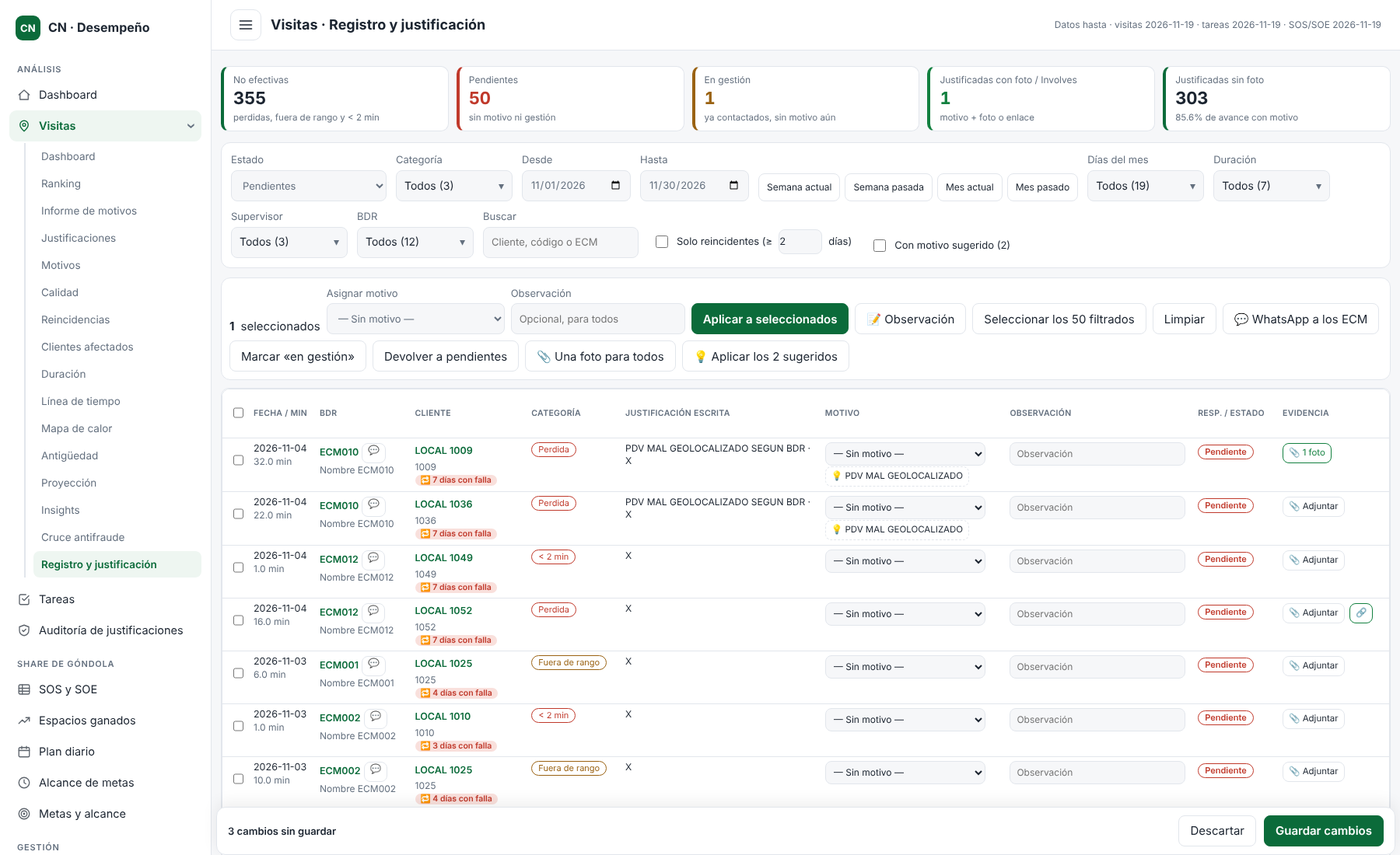
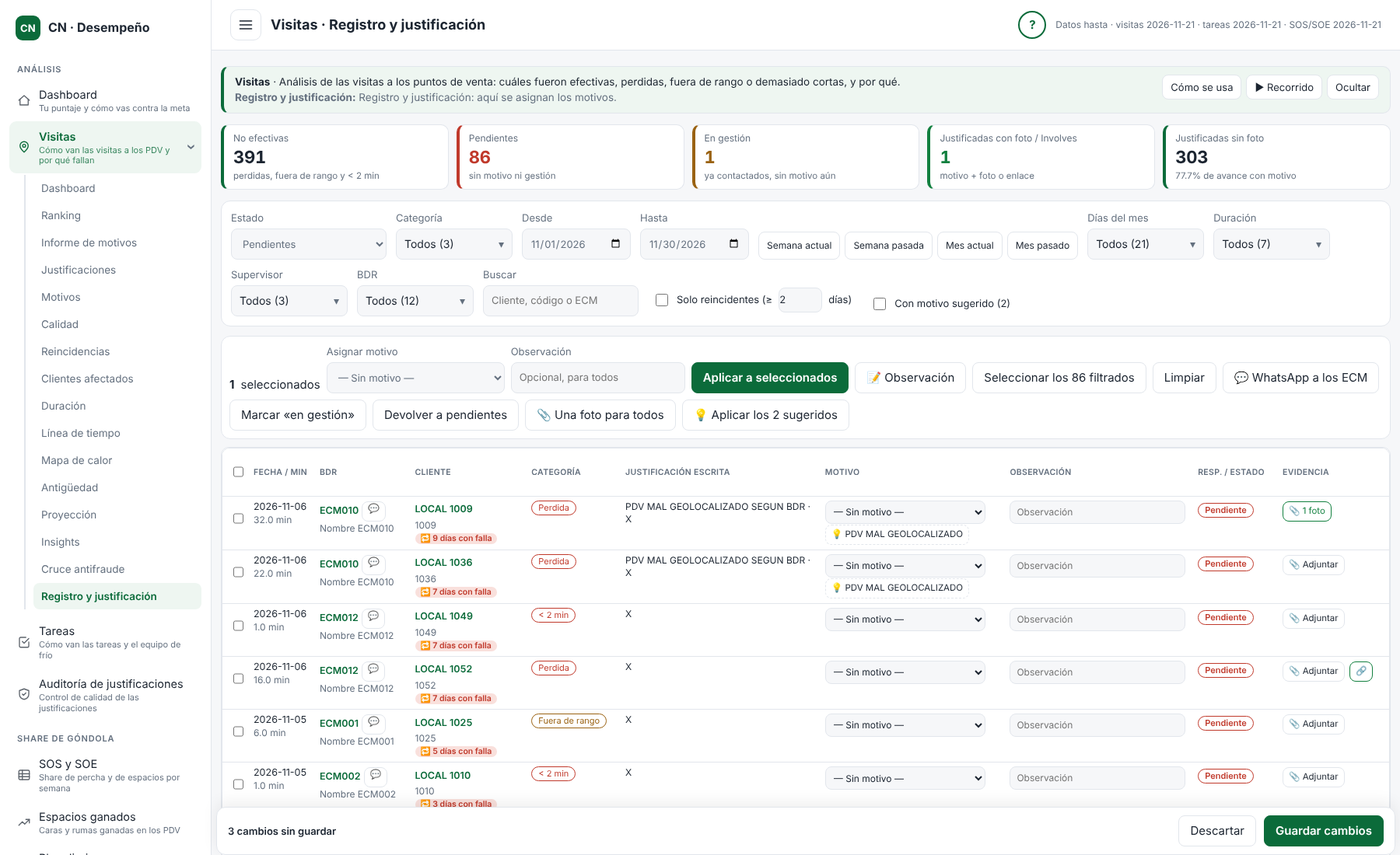
Ayuda interactiva: botón ?, recorrido guiado, bienvenida de primera vez, explicación visible en cada menú y pestaña, Centro de ayuda
Claude-Session: https://claude.ai/code/session_01JpWbck5kBhrX5tYtFQnDpi

diff --git a/web/ayuda.js b/web/ayuda.js
@@ -1,0 +1,190 @@
+'use strict';
+/* Ayuda interactiva: botón «?» en cada pantalla (explicación de la pantalla y de la pestaña activa), recorrido guiado con foco sobre
+   los elementos reales, bienvenida la primera vez y Centro de ayuda con buscador, glosario y preguntas frecuentes. */
+(function () {
+  NAV.ayuda = ['Centro de ayuda', ['admin', 'gerencia', 'supervisor', 'asesor']];
+  if (typeof ICON !== 'undefined') ICON.ayuda = '<circle cx="12" cy="12" r="9"/><path d="M9.5 9.5a2.5 2.5 0 114 2c-.9.6-1.5 1.1-1.5 2.2M12 17h.01"/>';
+  if (typeof GROUPS !== 'undefined' && !GROUPS.some(([t]) => t === 'Ayuda')) GROUPS.push(['Ayuda', ['ayuda']]);
+
+  const H = {
+    dashboard: { t: 'Dashboard', que: 'Tu panel de control del mes: el puntaje final y cada componente (visitas 20 %, tareas 30 %, tareas de frío 30 %, SOS 10 %, SOE 10 %) comparado con su meta.',
+      pasos: ['Elige el <b>Mes</b> arriba para ver otro período.', 'Mira los colores: verde cumple la meta, amarillo está cerca, rojo está por debajo.', 'Empieza por el componente más bajo: es donde más puedes mejorar.', 'Si eres supervisor o gerencia, revisa el detalle por supervisor y por ECM.'],
+      tips: ['El puntaje solo cuenta lo ya justificado: si tienes pendientes sin motivo, justifícalos en «Asignar motivos».'], tour: [['#main .bar', 'Mes', 'Cambia el mes para comparar períodos.'], ['#main .kp, #main .card', 'Puntaje y componentes', 'Aquí ves cómo vas contra la meta en cada componente.']] },
+    visitas: { t: 'Visitas', que: 'Análisis de las visitas a los puntos de venta: cuáles fueron efectivas, perdidas, fuera de rango o demasiado cortas, y por qué.',
+      pasos: ['Elige el <b>rango de fechas</b> (hay atajos: hoy, semana, mes).', 'Filtra por supervisor, BDR o categoría si lo necesitas.', 'Recorre las pestañas del menú lateral: de lo general (Dashboard, Ranking) a lo específico (Reincidencias, Duración).', 'Para justificar una visita ve a «Registro y justificación».', 'Descarga lo que ves con los botones Excel, PNG o PDF de cada tabla.'],
+      tips: ['Una visita cuenta como efectiva si se realizó, está dentro del rango del PDV y duró al menos el mínimo (2 minutos por defecto).', 'Los filtros se aplican a todas las pestañas.'],
+      tabs: { dash: 'Resumen: efectividad, cascada del plan a las efectivas y tendencia por día.', sbd: 'Ranking de supervisores y mercaderistas de mejor a peor.', inf: 'Informe de motivos: por qué fallaron las no efectivas, por responsable y por día de la semana.', jus: 'Justificaciones registradas con su estado y evidencia.', par: 'Pareto de motivos y su evolución mensual.', cal: 'Calidad del registro: datos incompletos o sospechosos.', rei: 'Clientes con fallas repetidas.', afe: 'Clientes más afectados por visitas no efectivas.', dur: 'Duración de las visitas: cortas y largas.', time: 'Línea de tiempo de la jornada.', heat: 'Mapa de calor por día y hora o por ECM.', pen: 'Antigüedad de lo pendiente de justificar.', pry: 'Proyección de cierre del mes según el ritmo actual.', ins: 'Hallazgos automáticos y recomendaciones.', cmp: 'Cruce antifraude: contrasta visitas con evidencias y enlaces de Involves.', det: 'Registro y justificación: aquí se asignan los motivos.' },
+      tour: [['#main .bar, #main .fbar', 'Filtros', 'Fechas, supervisor, BDR y categoría. Se aplican a todas las pestañas.'], ['#nav .ssub', 'Pestañas', 'Cambian la vista del análisis. Se pliegan con la flecha del menú.'], ['#main .kp', 'Indicadores', 'Los números clave del período elegido.'], ['#main .card', 'Tablas y gráficos', 'Cada tabla se puede ordenar y exportar a Excel, PNG o PDF.']] },
+    tareas: { t: 'Tareas', que: 'Igual que Visitas, pero para las tareas asignadas en Involves. Cada tarea es efectiva (E), mal ejecutada (M), justificada (F) o pendiente (P). Aparte se mide el equipo de frío.',
+      pasos: ['Elige el rango de fechas y filtros.', 'En <b>Pilares y frío</b> mira el cumplimiento de las tareas de equipo de frío (valen 30 % del puntaje).', 'En <b>Reincidencias</b> identifica los clientes con tareas fallidas repetidas.', 'Justifica en «Registro y justificación».'],
+      tips: ['Las tareas de frío se reconocen por palabras como COOLER, ESPACIO FRÍO o NEVERA; el administrador puede ajustarlas.'],
+      tabs: { dash: 'Resumen de efectividad de tareas.', sbd: 'Ranking de supervisores y ECM.', inf: 'Informe de motivos de las no efectivas.', jus: 'Justificaciones registradas.', par: 'Pareto de motivos.', cal: 'Calidad del registro.', pil: 'Pilares y equipo de frío.', rei: 'Clientes con tareas fallidas repetidas.', time: 'Línea de tiempo.', heat: 'Mapa de calor.', pen: 'Antigüedad de lo pendiente.', pry: 'Proyección del mes.', ins: 'Hallazgos automáticos.', cmp: 'Cruce antifraude.', det: 'Registro y justificación: asignar motivos.' },
+      tour: [['#main .bar, #main .fbar', 'Filtros', 'Fechas, supervisor, ECM y categoría.'], ['#nav .ssub', 'Pestañas', 'Incluye «Pilares y frío», exclusiva de tareas.'], ['#main .card', 'Tablas y gráficos', 'Exportables a Excel, PNG o PDF.']] },
+    audit: { t: 'Auditoría de justificaciones', que: 'Control de calidad de las justificaciones: en qué se justifica, quién repite, qué debe revisarse y qué cambios se hicieron.',
+      pasos: ['Define el rango de fechas.', 'En <b>Para revisar</b> aprueba o rectifica las justificaciones con alertas.', 'En <b>Avance por supervisor</b> revisa quién mantiene sus pendientes al día.', 'En <b>Historial de cambios</b> (gerencia y administración) consulta quién cambió qué y cuándo.'],
+      tips: ['Observaciones idénticas repetidas muchas veces suelen indicar justificación genérica.'], tabs: { mot: 'Motivos y responsable de lo justificado.', evo: 'Evolución mensual por motivo.', rei: 'Mismo cliente con el mismo motivo varias veces.', rev: 'Cola de justificaciones con alertas para aprobar o rectificar.', obs: 'Textos de observación que más se repiten.', ava: 'Porcentaje de lo no efectivo ya justificado, por supervisor.', his: 'Historial legible de cambios en la plataforma.' } },
+    sos: { t: 'SOS y SOE', que: 'Share de góndola de las marcas CN: SOS mide la percha; SOE mide espacios (bandejas de frío, bandejas secas y rumas). Se calcula por semana operativa (miércoles a martes).',
+      pasos: ['Abre <b>Resumen semanal</b> y usa las flechas ‹ › para cambiar de semana.', 'Compara con la semana anterior y mira los PDV bajo la meta.', 'En <b>PDV</b>, <b>Segmentos y marcas</b> y <b>Productos</b> busca dónde falta percha o espacio.', 'En <b>Alertas</b> ve lo que cae fuera de lo normal.'],
+      tips: ['Las encuestas de lunes y martes no cuentan.', 'Si un PDV tiene varias encuestas en la semana, vale solo la más reciente.', 'Una semana puede mostrar pocos días porque aún no se cargó toda la información.'],
+      tabs: { sem: 'Resumen semanal: share de la semana contra la anterior, PDV bajo meta, espacios ganados y metas. Se puede copiar o imprimir.', res: 'Evolución semana a semana.', sos: 'SOS: detalle de percha por supervisor, ECM, región o cadena.', soe: 'SOE: detalle de espacios.', mar: 'Participación por segmento y marca.', sku: 'Detalle por producto (SKU).', pdv: 'Cada PDV con su share y variación.', bi: 'Análisis: afectación al share y cambios relevantes.', ale: 'Alertas: PDV o ECM sin datos o con caídas.', det: 'Detalle editable (solo con permiso) para corregir filas.' },
+      tour: [['.wknav', 'Semana', 'Cambia de semana con las flechas. La semana va de miércoles a martes.'], ['#main .fbar, #main .bar', 'Filtros', 'Región, cadena, supervisor, ECM y PDV.'], ['#main .card, #main .big', 'Resultados', 'Share de percha y de espacios contra la semana anterior.']] },
+    ganancias: { t: 'Espacios ganados', que: 'Caras y rumas que se lograron ganar en los PDV (percha, bandeja de frío, bandeja seca y ruma), con fotos y observaciones.',
+      pasos: ['Filtra por fechas, ECM o PDV.', 'Revisa que tus logros aparezcan con su foto.', 'Quien tenga permiso puede registrar o corregir espacios ganados.'], tips: ['Si falta un logro, avisa a tu supervisor o al administrador.'] },
+    plan: { t: 'Plan diario', que: 'Calcula cuántos PDV y visitas debe cubrir cada ECM por día para llegar a la meta del período.',
+      pasos: ['Elige el período y revisa lo planeado para hoy.', 'Úsalo al empezar la jornada para ordenar tu ruta.', 'Compara con «Alcance de metas» al terminar el día.'] },
+    alcance: { t: 'Alcance de metas', que: 'Avance real por ECM y por día contra el plan: quién va adelantado y quién atrasado.',
+      pasos: ['Elige el período.', 'Revisa el avance de cada día frente a lo planeado.', 'Si vas por debajo, planea compensar en los días siguientes.'] },
+    metas: { t: 'Metas y alcance', que: 'Metas vigentes por semana o mes (SOS, SOE, visitas, tareas, frío). Quien tenga permiso puede crear y editar metas personalizadas, que tienen prioridad sobre las metas por defecto.',
+      pasos: ['Elige el período.', 'Consulta la meta aplicable a tu zona o a ti.', 'Con permiso: crea o edita una meta indicando modo, valor, regiones y responsable.'] },
+    registro: { t: 'Asignar motivos', que: 'Pantalla de trabajo diario para explicar con un motivo las visitas y tareas no efectivas. Siempre abre mostrando los pendientes.',
+      pasos: ['Elige <b>Visitas</b> o <b>Tareas</b>.', 'Filtra por fechas, categoría, ECM, duración o texto. Las tarjetas de arriba también filtran al pulsarlas.', 'Marca los registros (o «Seleccionar los filtrados»).', 'Elige el <b>motivo</b> y, si quieres, escribe una observación.', 'Pulsa <b>Aplicar a seleccionados</b>.', 'Pulsa <b>Guardar cambios</b> en la barra de abajo: hasta entonces nada queda registrado.'],
+      tips: ['💡 «Aplicar los sugeridos» propone motivos según la observación.', '🔁 «Revisar y replicar» copia el motivo de casos repetidos.', '📎 Puedes adjuntar una foto o enlaces de Involves (JPG, PNG o WebP, máximo 2 MB).', 'Si no puedes marcar ni guardar, tu tipo de usuario no tiene permiso de justificar.'],
+      tabs: { asignar: 'Asignar motivos: la lista de trabajo.', rei: 'PDV reincidentes: clientes con varias fallas, para actuar de una vez.', reg: 'Justificaciones registradas: lo ya hecho, con historial y exportación.' },
+      tour: [['#main .kp', 'Estados', 'Pendientes, en gestión y justificadas. Púlsalas para filtrar.'], ['#main .fbar', 'Filtros', 'Empieza en «Pendientes». Cambia fechas, categoría, ECM o busca por cliente.'], ['#bm', 'Motivo', 'Elige aquí el motivo que vas a aplicar a los marcados.'], ['[data-act="bulk"]', 'Aplicar', 'Aplica el motivo a todos los registros seleccionados.'], ['.rt', 'Lista', 'Marca los registros con la casilla de la izquierda.'], ['.savebar', 'Guardar', 'Los cambios solo quedan registrados al pulsar «Guardar cambios».']] },
+    pend: { t: 'Pendientes y WhatsApp', que: 'Lista por ECM de lo que sigue sin justificar, con un mensaje de WhatsApp ya redactado.',
+      pasos: ['Revisa los pendientes de cada ECM.', 'Pulsa el botón de WhatsApp: se abre el mensaje listo para enviar.', 'Al enviarlo, el registro pasa a «en gestión».', 'Cuando el ECM responda, asigna el motivo en «Asignar motivos».'] },
+    informe: { t: 'Informe mensual', que: 'Resumen del mes por ECM y supervisor con su puntaje, listo para reuniones.', pasos: ['Elige el mes.', 'Revisa el resumen por supervisor y por ECM.', 'Descarga en Excel o PDF.'] },
+    rutero: { t: 'Rutero y ubicación', que: 'Los PDV asignados a cada ECM, con región, cadena y ubicación registrada.', pasos: ['Busca por código, cliente o ECM.', 'Consulta la ubicación del PDV.', 'Úsalo para planear la ruta.'] },
+    carga: { t: 'Cargar bases', que: 'Solo para el administrador. Sube los reportes (visitas, tareas, rutero, equipo ECM, encuestas, espacios ganados, metas); cada archivo se reconoce por sus encabezados.',
+      pasos: ['Elige uno o varios archivos (.xlsx, .xls o .csv).', 'Revisa la lista: cada archivo muestra qué tipo es y cuántas filas trae. Quita los que no quieras.', 'Elige el modo: <b>Actualizar</b> (normal), <b>Reemplazar rango</b> o <b>Reemplazar todo</b>.', 'Pulsa subir y espera el resultado: nuevas, actualizadas, sin cambios y omitidas.', 'Tras cargar tareas, pulsa «Recalcular» en Pesos, metas y configuración.'],
+      tips: ['Orden recomendado la primera vez: Equipo ECM, Rutero, Visitas, Tareas, Encuestas, Espacios ganados, Metas.', 'Si falla, el panel de error permanece en pantalla con la explicación.', 'No cierres la pestaña mientras sube un archivo grande.'],
+      tour: [['#fl', 'Archivos', 'Elige uno o varios reportes a la vez.'], ['#lista', 'Reconocimiento', 'Aquí ves qué tipo es cada archivo antes de subirlo.']] },
+    ecm: { t: 'Equipo ECM', que: 'Relación de cada mercaderista con su supervisor, región y teléfono.', pasos: ['Busca al ECM.', 'Quien tenga permiso edita supervisor, región o teléfono.', 'Mantenerlo al día evita datos «sin supervisor».'] },
+    catalogo: { t: 'Catálogo de marcas', que: 'Clasifica cada pregunta de las encuestas en grupo (CN, competencia, EXCLUIR), tipo (percha, ruma, bandeja de frío o seca), marca y producto.', pasos: ['Revisa las preguntas nuevas o sin clasificar.', 'Asigna grupo, tipo y marca.', 'Guarda: el cambio afecta a todo SOS y SOE.'], tips: ['Las preguntas nuevas se clasifican solas por reglas; revisa las dudosas.'] },
+    config: { t: 'Pesos, metas y configuración', que: 'Parámetros del puntaje y de las reglas: pesos, metas por defecto, semana operativa, PDV excluidos, expresión de tareas de frío y otros ajustes.',
+      pasos: ['En <b>Pesos</b> ajusta los porcentajes (deben sumar 100).', 'En <b>Metas</b> define las metas por defecto.', 'En <b>Semana y exclusiones</b> indica el día de inicio y los PDV excluidos.', 'En <b>Tareas de equipo de frío</b> edita la expresión y mira la vista previa.', 'Pulsa <b>Recalcular</b> tras cambiar la expresión o cargar tareas nuevas.'] },
+    usuarios: { t: 'Usuarios', que: 'Altas, bajas y claves de los usuarios. Cada uno ingresa con un código (admin, ecm035…), sin correo.',
+      pasos: ['Pulsa <b>Nuevo usuario</b>.', 'Escribe código, nombre y tipo de usuario.', 'Mercaderista: código ECM/BDR. Supervisor: nombre como viene en las bases (vacío = ve todos los equipos) y regiones.', 'Entrega la clave por un canal seguro.', 'Para dar de baja, desactívalo: conserva su historial.'], tips: ['El código ECM debe coincidir con el de las bases o el usuario no verá sus datos.'] },
+    permisos: { t: 'Tipos de usuario y permisos', que: 'Define qué pantallas y pestañas ve cada tipo de usuario y qué acciones puede hacer (justificar, revisar, editar metas, etc.).',
+      pasos: ['Crea un tipo nuevo o elige uno existente.', 'Marca lo que puede <b>ver</b> (pantallas y pestañas).', 'Marca lo que puede <b>editar</b>.', 'Guarda y asigna el tipo a los usuarios.'], tips: ['Cargar bases es exclusivo del administrador.', 'El tipo base (admin, gerencia, supervisor, asesor) define el alcance de los datos.'] },
+    motivos: { t: 'Catálogo de motivos', que: 'Lista de motivos con su responsable. CN no penaliza; cualquier otro responsable sí.', pasos: ['Activa o desactiva motivos.', 'Pulsa «Nuevo» para crear uno: nombre, responsable y si aplica a visitas, tareas o ambos.'] },
+    accesos: { t: 'Accesos y movimiento', que: 'Quién entró, cuándo, qué pantallas vio y qué cambió en los últimos días. Solo administrador.',
+      pasos: ['Elige el período: 24 horas, 3 o 7 días.', '<b>Resumen por usuario:</b> último acceso, días activos y cambios; avisa quién no ha entrado.', '<b>Accesos:</b> cada ingreso y pantalla visitada; filtra por usuario.', '<b>Movimiento:</b> cambios hechos y por quién.'], tabs: { res: 'Resumen por usuario.', acc: 'Lista de ingresos y pantallas.', mov: 'Cambios registrados en la plataforma.' } },
+    ayuda: { t: 'Centro de ayuda', que: 'Todas las explicaciones en un solo lugar.', pasos: ['Busca por palabra o elige una pantalla.', 'Pulsa «Ver explicación» para leerla o «Recorrido» para verla en acción.'] }
+  };
+  const CORTA = { dashboard: 'Tu puntaje y cómo vas contra la meta', visitas: 'Cómo van las visitas a los PDV y por qué fallan', tareas: 'Cómo van las tareas y el equipo de frío', audit: 'Control de calidad de las justificaciones', sos: 'Share de percha y de espacios por semana', ganancias: 'Caras y rumas ganadas en los PDV', plan: 'Cuánto cubrir cada día para llegar a la meta', alcance: 'Avance real contra el plan, día por día', metas: 'Metas vigentes y su cumplimiento', registro: 'Explicar con un motivo lo no efectivo', pend: 'Lo que falta justificar y aviso por WhatsApp', informe: 'Resumen del mes por ECM y supervisor', rutero: 'PDV asignados y su ubicación', carga: 'Subir los reportes (solo administrador)', ecm: 'Mercaderistas, supervisor y región', catalogo: 'Clasificar las preguntas de las encuestas', config: 'Pesos, metas y reglas del puntaje', usuarios: 'Crear usuarios y cambiar claves', permisos: 'Qué ve y qué puede hacer cada tipo', motivos: 'Motivos y quién responsable', accesos: 'Quién entró y qué cambió', ayuda: 'Explicaciones, glosario y preguntas' };
+  const guiado = () => { try { return localStorage.getItem('cn_ay_guiado') !== 'no'; } catch (e) { return true; } };
+  const setGuiado = (v) => { try { localStorage.setItem('cn_ay_guiado', v ? 'si' : 'no'); } catch (e) { } };
+  const plano = (h) => String(h || '').replace(/<[^>]+>/g, '');
+  const GLOS = [['ECM / BDR', 'El mercaderista, identificado por su código (ECM035).'], ['PDV', 'Punto de venta (cliente), con código numérico.'], ['Visita efectiva', 'Realizada, dentro del rango del PDV y con duración mínima (2 min).'], ['Perdida', 'Visita programada que no se realizó.'], ['Fuera de rango', 'Visita hecha lejos del PDV.'], ['Tarea E / M / F / P', 'Efectiva, mal ejecutada, justificada o pendiente.'], ['Justificar', 'Explicar con un motivo por qué algo no fue efectivo. Si el responsable es CN, no penaliza.'], ['SOS', 'Share de percha: parte de la percha que ocupan las marcas CN.'], ['SOE', 'Share de espacios: bandejas y rumas de CN.'], ['Espacios ganados', 'Caras o rumas conseguidas en un PDV.'], ['Semana operativa', 'De miércoles a martes.'], ['Involves', 'Herramienta de campo donde se registran visitas, tareas y fotos.'], ['Puntaje', '20 % visitas, 30 % tareas, 30 % tareas de frío, 10 % SOS, 10 % SOE.']];
+  const FAQ = [['No puedo entrar', 'Revisa tu código (sin @) y tu contraseña. Si dice «usuario no activo» o «demasiados intentos», espera unos minutos o avisa al administrador.'], ['No veo un menú', 'Cada tipo de usuario tiene permisos distintos. Pídelo al administrador.'], ['Hice cambios y no se guardaron', 'Faltó pulsar «Guardar cambios». Si sales sin guardar, se pierden.'], ['Una semana de SOS tiene pocos días', 'Lunes y martes no cuentan, y la semana va de miércoles a martes.'], ['Mi visita de hoy no aparece', 'Los datos se cargan después. Mira «Datos hasta…» arriba a la derecha.'], ['La pantalla no se actualiza', 'Recarga con Ctrl + F5 (computador) o cierra y abre el navegador (celular).'], ['No puedo subir la foto', 'Usa JPG, PNG o WebP de hasta 2 MB.']];
+
+  const curKey = () => { const k = (location.hash || '#dashboard').slice(1).split('/')[0]; return NAV[k] ? k : 'dashboard'; };
+  const E = (s) => (typeof esc === 'function' ? esc(s) : String(s));
+  const visible = (el) => !!el && !!(el.offsetWidth || el.offsetHeight) && getComputedStyle(el).visibility !== 'hidden';
+
+  /* ---------- panel de ayuda de la pantalla actual ---------- */
+  function cierraPanel() { const p = document.getElementById('ayp'); if (p) { p.remove(); document.getElementById('ayb') && document.getElementById('ayb').focus(); } }
+  function panel(key) {
+    cierraPanel(); key = key || curKey(); const d = H[key] || { t: (NAV[key] || [key])[0], que: 'Aún no hay explicación para esta pantalla.', pasos: [] };
+    const sub = CN.sub && CN.sub[key], tabs = sub ? sub.tabs() : [], actual = sub ? sub.cur() : '';
+    const tabsHtml = tabs.length && d.tabs ? `<h3>Pestañas</h3><ul class="ay-tabs">${tabs.map(([k, n]) => `<li class="${k === actual ? 'on' : ''}"><b>${E(n)}</b>${k === actual ? ' <span class="ay-pill">estás aquí</span>' : ''}<br>${E(d.tabs[k] || '')}</li>`).join('')}</ul>` : '';
+    const dTab = d.tabs && actual && d.tabs[actual] ? `<div class="ay-now"><b>Pestaña actual:</b> ${E((tabs.find((t) => t[0] === actual) || [])[1] || '')}<br>${E(d.tabs[actual])}</div>` : '';
+    const el = document.createElement('aside'); el.id = 'ayp'; el.className = 'ay-panel'; el.setAttribute('role', 'dialog'); el.setAttribute('aria-label', 'Ayuda: ' + d.t);
+    el.innerHTML = `<div class="ay-h"><h2>${E(d.t)}</h2><button type="button" data-ay="x" aria-label="Cerrar ayuda">✕</button></div>
+      <div class="ay-b"><p>${d.que}</p>${dTab}${d.pasos && d.pasos.length ? `<h3>Cómo se usa</h3><ol>${d.pasos.map((p) => `<li>${p}</li>`).join('')}</ol>` : ''}${d.tips && d.tips.length ? `<h3>Buenas prácticas</h3><ul>${d.tips.map((p) => `<li>${p}</li>`).join('')}</ul>` : ''}${tabsHtml}</div>
+      <div class="ay-f"><button type="button" class="pri" data-ay="tour">▶ Recorrido guiado</button><button type="button" data-ay="centro">Centro de ayuda</button></div>`;
+    document.body.appendChild(el);
+    el.onclick = (e) => { const a = e.target.closest('[data-ay]'); if (!a) return; if (a.dataset.ay === 'x') cierraPanel(); else if (a.dataset.ay === 'tour') { cierraPanel(); recorrido(key); } else if (a.dataset.ay === 'centro') { cierraPanel(); location.hash = '#ayuda'; } };
+    el.querySelector('[data-ay="x"]').focus();
+  }
+
+  /* ---------- recorrido guiado ---------- */
+  function recorrido(key) {
+    key = key || curKey(); const d = H[key] || {};
+    const base = [['#sb', 'Menú', 'Aquí están todas tus pantallas. Pulsa una para abrirla; las que tienen pestañas las muestran debajo.'], ['#ph', 'Dónde estás', 'El título muestra la pantalla y la pestaña actual.'], ['#ayb', 'Ayuda', 'Este botón (o la tecla ?) abre la explicación de la pantalla en que estés.']];
+    const pasos = base.concat(d.tour || []).map(([sel, t, x]) => ({ el: [...document.querySelectorAll(sel)].find(visible), t, x })).filter((s) => s.el);
+    if (!pasos.length) return panel(key);
+    correr(pasos);
+  }
+  function correr(pasos) {
+    let i = 0; const ov = document.createElement('div'); ov.className = 'ay-tour'; ov.setAttribute('role', 'dialog'); ov.setAttribute('aria-label', 'Recorrido guiado');
+    const sp = document.createElement('div'); sp.className = 'ay-spot'; const tip = document.createElement('div'); tip.className = 'ay-tip'; ov.append(sp, tip); document.body.appendChild(ov);
+    const fin = () => { ov.remove(); removeEventListener('keydown', tecla, true); removeEventListener('resize', pinta); };
+    const pinta = () => {
+      const s = pasos[i]; if (s.abrir) { const sb = document.getElementById('sb'); if (sb && !visible(sb)) sb.classList.add('open'); } s.el.scrollIntoView({ block: 'center', behavior: 'instant' in window ? 'auto' : 'auto' }); const r = s.el.getBoundingClientRect(), pad = 6;
+      Object.assign(sp.style, { top: r.top - pad + 'px', left: r.left - pad + 'px', width: r.width + pad * 2 + 'px', height: r.height + pad * 2 + 'px' });
+      tip.innerHTML = `<div class="ay-step">Paso ${i + 1} de ${pasos.length}</div><b>${E(s.t)}</b><p>${E(s.x)}</p><div class="ay-btns"><button type="button" data-t="x">Salir</button><span style="flex:1"></span><button type="button" data-t="p" ${i ? '' : 'disabled'}>Anterior</button><button type="button" class="pri" data-t="n">${i === pasos.length - 1 ? 'Terminar' : 'Siguiente'}</button></div>`;
+      const th = tip.offsetHeight || 150, w = Math.min(340, innerWidth - 24); tip.style.width = w + 'px';
+      if (s.el.closest('#sb') && innerWidth - r.right > w + 30) { tip.style.left = r.right + 16 + 'px'; tip.style.top = Math.min(Math.max(8, r.top), innerHeight - th - 8) + 'px'; tip.querySelector('[data-t="n"]').focus(); return; }
+      let top = r.bottom + 14; if (top + th > innerHeight - 8) top = Math.max(8, r.top - th - 14); if (top < 8) top = 8; let left = Math.min(Math.max(12, r.left), innerWidth - w - 12);
+      tip.style.top = top + 'px'; tip.style.left = left + 'px'; tip.querySelector('[data-t="n"]').focus();
+    };
+    const sig = () => { if (i < pasos.length - 1) { i++; pinta(); } else fin(); }, ant = () => { if (i) { i--; pinta(); } };
+    const tecla = (e) => { if (e.key === 'Escape') { e.stopPropagation(); fin(); } else if (e.key === 'ArrowRight') sig(); else if (e.key === 'ArrowLeft') ant(); };
+    tip.onclick = (e) => { const b = e.target.closest('[data-t]'); if (!b) return; ({ x: fin, n: sig, p: ant })[b.dataset.t](); }; ov.onclick = (e) => { if (e.target === ov) fin(); };
+    addEventListener('keydown', tecla, true); addEventListener('resize', pinta); pinta();
+  }
+
+  function recorridoMenu() {
+    const sb = document.getElementById('sb'); if (sb && !visible(sb)) sb.classList.add('open');
+    const pasos = [{ el: sb, t: 'Tu menú', x: 'Aquí está todo lo que puedes usar. Te explicamos para qué sirve cada opción. Usa las flechas del teclado o los botones.', abrir: 1 }];
+    [...document.querySelectorAll('#nav .sbtn[data-go]')].forEach((b) => { const k = b.dataset.go, d = H[k]; if (!d) return; pasos.push({ el: b, abrir: 1, t: d.t, x: plano(d.que) + (d.tabs ? ' Tiene pestañas: al abrirla las verás debajo, en el menú, cada una con su explicación al pasar el mouse.' : '') }); });
+    pasos.push({ el: document.getElementById('ayb'), t: '¿Dudas?', x: 'En cualquier pantalla, el botón ? (o la tecla ?) te explica qué es y cómo se usa. También hay un Centro de ayuda en el menú.' });
+    correr(pasos.filter((p) => p.el));
+  }
+
+  /* ---------- explicaciones siempre visibles: menú, pestañas y franja de cada pantalla ---------- */
+  function anotaMenu() {
+    const cur = curKey(), d = H[cur] || {};
+    document.querySelectorAll('#nav .sbtn[data-go]').forEach((b) => {
+      const k = b.dataset.go, c = CORTA[k]; if (!c) return; b.title = c; const sp = b.querySelector('span'); if (!sp) return;
+      let sm = b.querySelector('.ay-sub'); if (guiado()) { if (!sm) { sm = document.createElement('small'); sm.className = 'ay-sub'; sp.appendChild(sm); } sm.textContent = c; } else if (sm) sm.remove();
+    });
+    document.querySelectorAll('#nav [data-sub]').forEach((b) => { const tk = b.dataset.sub.split('|')[1], t = d.tabs && d.tabs[tk]; if (t) b.title = t; });
+  }
+  let firmaIntro = '';
+  function franja() {
+    const m = document.getElementById('main'); if (!m || !S.me) return; const key = curKey(); if (key === 'ayuda') return;
+    const d = H[key], sub = CN.sub && CN.sub[key], actual = sub ? sub.cur() : '', tabs = sub ? sub.tabs() : [];
+    const tn = (tabs.find((t) => t[0] === actual) || [])[1], td = d && d.tabs && d.tabs[actual];
+    const sig = [key, actual, guiado()].join('|'); const ex = m.querySelector(':scope > .ay-intro');
+    if (!guiado() || !d) { if (ex) ex.remove(); return; } if (ex && ex.dataset.k === sig) return; if (ex) ex.remove();
+    const el = document.createElement('div'); el.className = 'ay-intro'; el.dataset.k = sig;
+    el.innerHTML = `<div class="ay-i"><b>${E(d.t)}</b> · ${plano(d.que)}${tn && td ? `<br><span class="ay-tb"><b>${E(tn)}:</b> ${E(td)}</span>` : ''}</div><div class="ay-ib"><button type="button" data-i="uso">Cómo se usa</button><button type="button" data-i="tour">▶ Recorrido</button><button type="button" data-i="ocultar" title="Ocultar las explicaciones (se vuelven a activar en el menú)">Ocultar</button></div>`;
+    el.onclick = (e) => { const b = e.target.closest('[data-i]'); if (!b) return; if (b.dataset.i === 'uso') panel(key); else if (b.dataset.i === 'tour') recorrido(key); else { setGuiado(false); anotaMenu(); franja(); actualizaToggle(); } };
+    m.prepend(el);
+  }
+  function actualizaToggle() { const t = document.getElementById('ayt'); if (t) { t.querySelector('span').textContent = guiado() ? 'Explicaciones: activadas' : 'Explicaciones: desactivadas'; t.setAttribute('aria-pressed', guiado()); } }
+  function toggle() {
+    const foot = document.querySelector('#sb .foot'); if (!foot || document.getElementById('ayt')) return;
+    const b = document.createElement('button'); b.type = 'button'; b.id = 'ayt'; b.className = 'sbtn'; b.innerHTML = '<svg viewBox="0 0 24 24" aria-hidden="true"><circle cx="12" cy="12" r="9"/><path d="M12 11v5M12 8h.01"/></svg><span></span>';
+    foot.insertBefore(b, foot.firstChild.nextSibling || null); b.onclick = () => { setGuiado(!guiado()); anotaMenu(); franja(); actualizaToggle(); }; actualizaToggle();
+  }
+
+  /* ---------- botón «?» y bienvenida ---------- */
+  function boton() {
+    const head = document.querySelector('.pagehead'); if (!head || document.getElementById('ayb')) return;
+    const b = document.createElement('button'); b.type = 'button'; b.id = 'ayb'; b.className = 'ay-btn'; b.textContent = '?'; b.title = 'Ayuda de esta pantalla (tecla ?)'; b.setAttribute('aria-label', 'Ayuda de esta pantalla');
+    const f = document.getElementById('fresh'); head.insertBefore(b, f || null); b.onclick = () => panel();
+  }
+  function bienvenida(forzar) {
+    const k = 'cn_ayuda_' + (S.me && S.me.usuario); if (!forzar) { try { if (localStorage.getItem(k)) return; } catch (e) { return; } }
+    const c = document.createElement('div'); c.className = 'modal ay-wm'; c.setAttribute('role', 'dialog'); c.setAttribute('aria-modal', 'true'); c.setAttribute('aria-label', 'Bienvenida');
+    const nom = E((S.me.nombre || '').split(' ')[0] || ''), rol = E(S.me.perfilNombre || '');
+    c.innerHTML = `<div class="box" style="max-width:480px"><h2 style="margin:0;color:var(--brand)">¡Bienvenido/a${nom ? ', ' + nom : ''}!</h2><p>Esta plataforma te muestra cómo van tus visitas, tareas y share de góndola, y te ayuda a justificar lo que no salió como esperabas.${rol ? ' Tu perfil es <b>' + rol + '</b>.' : ''}</p>
+      <p>Te recomendamos un <b>recorrido de un minuto</b> por tu menú: te explicamos para qué sirve cada opción y sus pestañas.</p><p class="note">Siempre verás una explicación corta en cada menú y pantalla. Puedes ocultarla o volver a verla desde el menú («Explicaciones»).</p>
+      <div class="ay-btns" style="flex-wrap:wrap"><button type="button" data-w="no">Ahora no</button><span style="flex:1"></span><button type="button" class="pri" data-w="si">▶ Empezar recorrido</button></div></div>`;
+    document.body.appendChild(c); const listo = () => { try { localStorage.setItem(k, '1'); } catch (e) { } c.remove(); };
+    c.onclick = (e) => { const a = e.target.closest('[data-w]'); if (!a) return; listo(); if (a.dataset.w === 'si') recorridoMenu(); }; c.querySelector('[data-w="si"]').focus();
+  }
+  CN.ayuda = { panel, recorrido, recorridoMenu, bienvenida };
+  const sideRef = CN.sideRefresh; CN.sideRefresh = function () { const r = sideRef.apply(this, arguments); try { boton(); toggle(); anotaMenu(); franja(); if (!window._ayB) { window._ayB = 1; setTimeout(() => bienvenida(), 900); const mo = new MutationObserver(() => { try { franja(); } catch (e) { } }); mo.observe(document.getElementById('main'), { childList: true }); } } catch (e) { } return r; };
+  addEventListener('keydown', (e) => { if (e.key === '?' && !/INPUT|TEXTAREA|SELECT/.test((e.target || {}).tagName || '') && document.getElementById('ayb')) { e.preventDefault(); panel(); } else if (e.key === 'Escape' && document.getElementById('ayp')) cierraPanel(); });
+
+  /* ---------- Centro de ayuda ---------- */
+  VIEWS.ayuda = async function () {
+    const m = $('#main'), claves = Object.keys(H).filter((k) => k !== 'ayuda' && NAV[k] && veMod(k));
+    const dibuja = (q) => {
+      q = (q || '').trim().toLowerCase(); const txt = (k) => (H[k].t + ' ' + H[k].que + ' ' + (H[k].pasos || []).join(' ') + ' ' + (H[k].tips || []).join(' ')).replace(/<[^>]+>/g, '').toLowerCase();
+      const L = claves.filter((k) => !q || txt(k).includes(q)), G = GLOS.filter(([a, b]) => !q || (a + ' ' + b).toLowerCase().includes(q)), F = FAQ.filter(([a, b]) => !q || (a + ' ' + b).toLowerCase().includes(q));
+      $('#ay-res').innerHTML = `<h2>Pantallas${q ? ' · ' + L.length : ''}</h2><div class="ay-grid">${L.map((k) => `<div class="card"><h3>${E(H[k].t)}</h3><p class="note">${H[k].que}</p><div class="bar" style="margin:0"><button type="button" data-ayh="${k}">Ver explicación</button><button type="button" data-ayo="${k}">Abrir pantalla</button></div></div>`).join('') || '<p class="note">Sin resultados.</p>'}</div>
+        <h2>Glosario</h2><div class="card"><dl class="ay-dl">${G.map(([a, b]) => `<dt>${E(a)}</dt><dd>${E(b)}</dd>`).join('') || '<p class="note">Sin resultados.</p>'}</dl></div>
+        <h2>Preguntas frecuentes</h2>${F.map(([a, b]) => `<details class="card ay-faq"><summary>${E(a)}</summary><p>${E(b)}</p></details>`).join('') || '<p class="note">Sin resultados.</p>'}`;
+    };
+    m.innerHTML = `<div class="card"><h2 style="margin-top:0">Primeros pasos</h2><ol><li>Usa el <b>menú lateral</b> para abrir una pantalla.</li><li>En cada pantalla, el botón <b>?</b> (arriba a la derecha) explica qué es y cómo se usa.</li><li>Pulsa <b>Recorrido guiado</b> para ver la pantalla señalada paso a paso.</li></ol><div class="bar" style="margin:0"><button type="button" class="pri" id="ay-t">▶ Recorrido por mi menú</button></div></div>
+      <div class="bar"><label style="flex:1;max-width:420px">Buscar en la ayuda<input id="ay-q" type="search" placeholder="Ej. justificar, semana, meta, clave…"></label></div><div id="ay-res"></div>`;
+    dibuja(''); $('#ay-q').oninput = (e) => dibuja(e.target.value); $('#ay-t').onclick = () => recorridoMenu();
+    m.addEventListener('click', (e) => { const h = e.target.closest('[data-ayh]'), o = e.target.closest('[data-ayo]'); if (h) panel(h.dataset.ayh); else if (o) location.hash = '#' + o.dataset.ayo; });
+  };
+})();

diff --git a/tests/ayuda.js b/tests/ayuda.js
@@ -1,0 +1,21 @@
+/* Ayuda interactiva: bienvenida de primera vez, recorrido por el menú, franja explicativa, panel «?» y Centro de ayuda. */
+const { chromium } = require('playwright'); const fs = require('fs'), path = require('path'), http = require('http');
+const WEB = path.join(__dirname, '..', 'web');
+const srv = http.createServer((req, res) => { const f = path.join(WEB, req.url.split('?')[0] === '/' ? 'index.html' : req.url.split('?')[0]); if (!fs.existsSync(f)) { res.writeHead(404); return res.end(); } res.writeHead(200, { 'Content-Type': f.endsWith('.js') ? 'application/javascript' : f.endsWith('.css') ? 'text/css' : 'text/html' }); res.end(fs.readFileSync(f)); });
+(async () => { await new Promise((r) => srv.listen(8792, r)); const b = await chromium.launch(), errs = [];
+  for (const [nombre, vw] of [['escritorio', { width: 1400, height: 900 }], ['movil', { width: 390, height: 800 }]]) {
+    const p = await (await b.newContext({ viewport: vw })).newPage(); p.on('pageerror', (e) => errs.push(e.message)); p.on('console', (m) => { if (m.type() === 'error') errs.push(m.text()); });
+    await p.addInitScript(() => { window.__BIENVENIDA = 1; });
+    await p.route('https://cdn.jsdelivr.net/**', (r) => { const u = r.request().url(); const S = (f) => r.fulfill({ contentType: 'application/javascript', body: fs.readFileSync(f) }); if (/supabase/.test(u)) return S(path.join(__dirname, 'fake.js')); if (/xlsx/.test(u)) return S(path.join(__dirname, '..', 'node_modules', 'xlsx', 'dist', 'xlsx.full.min.js')); r.abort(); });
+    await p.goto('http://localhost:8792/#visitas'); await p.waitForSelector('.ay-wm', { timeout: 15000 }); console.log(nombre, '· bienvenida:', await p.$eval('.ay-wm h2', (h) => h.innerText));
+    await p.screenshot({ path: path.join(__dirname, `ay-${nombre}-1.png`) });
+    await p.click('[data-w="si"]'); await p.waitForSelector('.ay-tour');
+    let pasos = 0; const titulos = []; for (; pasos < 40; pasos++) { titulos.push(await p.$eval('.ay-tip b', (e) => e.innerText)); if (pasos === 2) await p.screenshot({ path: path.join(__dirname, `ay-${nombre}-2.png`) }); const fin = await p.$eval('[data-t="n"]', (e) => e.innerText); await p.click('[data-t="n"]'); if (fin === 'Terminar') { pasos++; break; } }
+    console.log(nombre, '· pasos del recorrido:', pasos, titulos.join(' | ')); console.log(nombre, '· recorrido cerrado:', !(await p.$('.ay-tour')));
+    console.log(nombre, '· franja:', (await p.$eval('#main .ay-intro', (e) => e.innerText.replace(/\n/g, ' ').slice(0, 150))), '| subtítulos de menú:', await p.$$eval('#nav .ay-sub', (a) => a.length));
+    await p.click('#ayb'); await p.waitForSelector('#ayp'); console.log(nombre, '· panel:', (await p.$eval('#ayp h2', (e) => e.innerText)), '·', await p.$$eval('#ayp li', (a) => a.length), 'items'); await p.screenshot({ path: path.join(__dirname, `ay-${nombre}-3.png`) }); await p.keyboard.press('Escape');
+    await p.click('#ayb'); await p.click('[data-ay="tour"]'); await p.waitForSelector('.ay-tour'); console.log(nombre, '· tour de pantalla pasos:', await p.$eval('.ay-step', (e) => e.innerText)); await p.keyboard.press('Escape');
+    await p.evaluate(() => { location.hash = '#ayuda'; }); await p.waitForSelector('#ay-q'); await p.fill('#ay-q', 'semana'); await p.waitForTimeout(200); console.log(nombre, '· centro, resultados «semana»:', await p.$$eval('.ay-grid .card', (a) => a.length), 'pantallas');
+    await p.click('#ayt').catch(() => {}); console.log(nombre, '· toggle:', await p.$eval('#ayt span', (e) => e.innerText).catch(() => 'n/a'));
+  }
+  console.log('errores:', errs.length, errs.slice(0, 4)); await b.close(); srv.close(); })();

diff --git a/web/style.css b/web/style.css
@@ -274,3 +274,20 @@ tr.today td{background:color-mix(in oklab,var(--brand) 10%,var(--card))}tr.tot t
 a{color:var(--brand)}a button{color:inherit}
 @media(prefers-color-scheme:dark){:root:not([data-theme="light"]){--s1:#4b91ec}}
 :root[data-theme="dark"]{--s1:#4b91ec}
+/* ayuda interactiva */
+.ay-btn{width:36px;min-height:36px;padding:0;border-radius:50%;font-weight:700;color:var(--brand);border:2px solid var(--brand);background:var(--card);margin-left:8px}.ay-btn:hover{background:var(--sel)}
+.ay-panel{position:fixed;top:0;right:0;bottom:0;width:min(420px,100vw);background:var(--card);border-left:1px solid var(--line);box-shadow:-8px 0 24px #0003;z-index:60;display:flex;flex-direction:column}
+.ay-h{display:flex;align-items:center;gap:8px;padding:14px 16px;border-bottom:1px solid var(--line)}.ay-h h2{flex:1;margin:0;font-size:18px;color:var(--brand)}
+.ay-b{padding:12px 16px;overflow:auto;flex:1}.ay-b h3{margin:16px 0 4px;font-size:14px}.ay-b ol,.ay-b ul{padding-left:20px;margin:4px 0}.ay-b li{margin:4px 0}
+.ay-now{background:var(--sel);border-left:4px solid var(--brand);padding:8px 10px;border-radius:6px;margin:10px 0}.ay-tabs{list-style:none;padding:0!important}.ay-tabs li{padding:6px 8px;border-radius:6px;font-size:13.5px}.ay-tabs li.on{background:var(--sel)}
+.ay-pill{font-size:11px;background:var(--brand);color:var(--brand-ink);border-radius:10px;padding:1px 7px}
+.ay-f{display:flex;gap:8px;flex-wrap:wrap;padding:12px 16px;border-top:1px solid var(--line)}
+.ay-tour{position:fixed;inset:0;z-index:80}.ay-spot{position:fixed;border-radius:10px;box-shadow:0 0 0 9999px #000a;border:2px solid #ffd54a;transition:all .2s;pointer-events:none}
+.ay-tip{position:fixed;background:var(--card);color:var(--ink);border-radius:12px;padding:14px 16px;box-shadow:0 8px 30px #0006;border:1px solid var(--line)}.ay-tip p{margin:6px 0 10px}.ay-step{font-size:12px;color:var(--mut)}
+.ay-btns{display:flex;gap:8px;align-items:center}
+.ay-welcome{position:fixed;right:16px;bottom:16px;width:min(340px,calc(100vw - 32px));background:var(--card);border:1px solid var(--line);border-radius:12px;padding:14px 16px;box-shadow:0 8px 30px #0005;z-index:55}.ay-welcome p{margin:6px 0 10px}
+.ay-grid{display:grid;grid-template-columns:repeat(auto-fill,minmax(280px,1fr));gap:12px}.ay-grid .card{margin:0}.ay-dl dt{font-weight:700;margin-top:8px}.ay-dl dd{margin:2px 0 0;color:var(--mut)}.ay-faq summary{cursor:pointer;font-weight:600}
+@media print{.ay-btn,.ay-panel,.ay-welcome,.ay-tour{display:none!important}}
+.ay-sub{display:block;font-size:11px;font-weight:400;color:var(--mut);line-height:1.25;white-space:normal;margin-top:1px}.sbtn.on .ay-sub{color:inherit;opacity:.8}
+.ay-intro{display:flex;gap:12px;align-items:flex-start;flex-wrap:wrap;background:var(--sel);border:1px solid var(--line);border-left:4px solid var(--brand);border-radius:10px;padding:10px 14px;margin:0 0 14px}.ay-i{flex:1;min-width:240px;font-size:13.5px}.ay-tb{color:var(--mut)}.ay-ib{display:flex;gap:6px;flex-wrap:wrap}.ay-ib button{min-height:32px;padding:4px 10px;font-size:13px}
+.ay-wm{z-index:90}

diff --git a/tests/fake.js b/tests/fake.js
@@ -23,6 +23,7 @@
   for (let w = 0; w < 6; w++) PDV.forEach((p, i) => { const f = day(w * 7 + (i % 4)); [['PERCHA', 3], ['RUMA', 1], ['BANDEJA FRÍO', 1]].forEach(([t]) => marcas.forEach(([g, m]) => DB.share_detalle.push({ id: DB.share_detalle.length + 1, fecha: f, codigo: p.codigo, pdv: p.pdv, ecm: p.ecm, supervisor: p.supervisor, tipo: t, grupo: g, marca: m, sku: m + ' LATA', caras: 1 + Math.floor(rnd() * 8) }))); });
   for (let d = 0; d < 20; d++) PDV.slice(0, 10).forEach((p, i) => DB.ganancias.push({ id: DB.ganancias.length + 1, fecha: day(d), codigo: p.codigo, pdv: p.pdv, cadena: p.cadena, ecm: p.ecm, supervisor: p.supervisor, percha: 2, frio: 1, seco: 0, ruma: 1, observacion: '', fuente: 'archivo' }));
   const mes = new Date().toISOString().slice(0, 7); const base = { ambito: 'grupo', clave: '', tipo: '', responsable: 'ERWIN', regiones: '', cadenas: '', supervisores: '', ecms: '', pdvs: '', excluir: '', base: 'grupo' }; DB.metas = [{ ...base, id: 1, nombre: 'GANADAS TOTAL', mes, modo: 'ganadas', valor: 900, tipos: '' }, { ...base, id: 2, nombre: 'PERCHAS TIA', mes: '2026-W46', modo: 'share', valor: 0.7, tipos: 'PERCHA', cadenas: 'TIA' }, { ...base, id: 3, nombre: '% PENETRACION RUMAS', mes: '2026-W46', modo: 'penetracion', valor: 0.4, tipos: 'RUMA' }, { ...base, id: 4, nombre: 'FRIO TIA', mes: '2026-W46', modo: 'caras_total', valor: 500, tipos: 'BANDEJA FRÍO', cadenas: 'TIA' }];
+  if (!window.__BIENVENIDA) { try { localStorage.setItem('cn_ayuda_admin', '1'); localStorage.setItem('cn_ayuda_x', '1'); } catch (e) { } }
   DB.accesos = [{ id: 1, usuario: 'u1', fecha: new Date().toISOString(), evento: 'login', vista: null, agente: 'Mozilla/5.0 Chrome/120 Safari/537' }, { id: 2, usuario: 'u1', fecha: new Date().toISOString(), evento: 'pantalla', vista: 'visitas', agente: 'Mozilla/5.0 Android Chrome/120' }];
   DB.bitacora = [{ id: 1, fecha: new Date().toISOString(), usuario: 'u1', tabla: 'justificaciones', accion: 'UPDATE', anterior: { motivo: 'a' }, nuevo: { motivo: 'b' } }];
   if (window.__ROL) DB.profiles[0] = { id: 'u1', usuario: 'x', nombre: 'Usuario Prueba', rol: window.__ROL, activo: true, ecm_code: 'ECM001', supervisor: 'ANA PEREZ' }; DB.reglas_sugerencia = [{ id: 1, palabra: 'GEOLOCALIZ', motivo: 'PDV MAL GEOLOCALIZADO' }];

diff --git a/web/index.html b/web/index.html
@@ -33,5 +33,6 @@
 <script src="registro.js"></script>
 <script src="config2.js"></script>
 <script src="accesos.js"></script>
+<script src="ayuda.js"></script>
 </body>
 </html>
